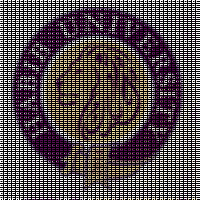
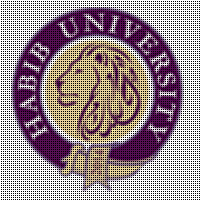
one loop column done

diff --git a/src/image_operations.py b/src/image_operations.py
@@ -121,97 +121,40 @@ def resize(src: MyImage) -> MyImage:
         for column in range(original_width):
 
             # getting the rgb values of the particular row and column using the get function of MyImage
-            rgb_value = src.get(row, column)
-            resulting_image.set(row * 2, column * 2, rgb_value)
+            red_left, green_left, blue_left = src.get(row, column)
 
-            if row > 0:
-                if row % 2 != 0:  # blank rows
-                    red_up, green_up, blue_up = resulting_image.get(
-                        row - 1, column)
-                    red_down, green_down, blue_down = resulting_image.get(
-                        row, column)
-                    
-                    average_red = int((red_up + red_down) / 2)
-                    average_green = int((green_up + green_down) / 2)
-                    average_blue = int((blue_up + blue_down) / 2)
+            resulting_image.set(row * 2, column * 2,
+                                (red_left, green_left, blue_left))
+            
+            if column < original_width - 1:
+                red_right, green_right, blue_right = src.get(row, column + 1)
 
-                    resulting_image.set(
-                        (row * 2) - 1, column * 2, (average_red, average_green, average_blue))
-                    if row == original_height - 1:
-                        resulting_image.set(
-                            (row * 2) + 1, column * 2, (red_up, green_up, blue_up))
-                    # else:
-                    
-                    
-            if column > 0:
-                if column % 2 != 0:  # blank columns
-                    red_left, green_left, blue_left = src.get(
-                        row, column - 1)
-                    red_right, green_right, blue_right = src.get(
-                        row, column)
-                    
-                    average_red = int((red_left + red_right) / 2)
-                    average_green = int((green_left + green_right) / 2)
-                    average_blue = int((blue_left + blue_right) / 2)
+                average_red = int((red_left + red_right) / 2)
+                average_green = int((green_left + green_right) / 2)
+                average_blue = int((blue_left + blue_right) / 2)
 
-                    print (red_left, red_right)
+                resulting_image.set(row * 2, column * 2 + 1,
+                                    (average_red, average_green, average_blue))
+            
+            
+            else:
+                resulting_image.set(row * 2, column * 2 + 1,
+                    (red_left, green_left, blue_left))
 
-                    resulting_image.set(
-                        row * 2, (column * 2) - 1 , (average_red, average_green, average_blue))
-                    if column == original_width - 1:
-                        resulting_image.set(
-                            row * 2, column * 2 + 1, (red_left, green_left, blue_left))
+            red_up, green_up, blue_up = src.get(row, column)
 
-                    # else:
-                        
-            # setting the rgb value on the resized (larger) image by skipping one pixel, leaving a alternate rows and columns blank
-            # resulting_image.set(row * 2, column * 2, rgb_value)
+            if row < original_height - 1:
+                red_down, green_down, blue_down = src.get(row + 1, column)
+            
+                average_red = int((red_up + red_down) / 2)
+                average_green = int((green_up + green_down) / 2)
+                average_blue = int((blue_up + blue_down) / 2)
 
-            # print("source: ", src.get(row, column))
-            # print("result: ", resulting_image.get(row * 2, column * 2))
-
-    # for row in range(new_height):  # looping to set rgb values for blank blocks/pxiels
-    #     for column in range(new_width):
-
-    #         if row % 2 != 0:  # blank rows
-    #             if row != new_height - 1:
-    #                 red_up, green_up, blue_up = resulting_image.get(
-    #                     row - 1, column)
-    #                 red_down, green_down, blue_down = resulting_image.get(
-    #                     row + 1, column)
-    #                 if column % 2 == 0:
-    #                     average_red = int((red_up + red_down) / 2)
-    #                     average_green = int((green_up + green_down) / 2)
-    #                     average_blue = int((blue_up + blue_down) / 2)
-
-    #                     resulting_image.set(
-    #                         row, column, (average_red, average_green, average_blue))
-                        
-    #                     # print (resulting_image.get(2, 1))
-    #                 # else:
-
-    #             else:
-    #                 resulting_image.set(
-    #                     row, column, (red_up, green_up, blue_up))
-
-    #         if column % 2 != 0:  # blank columns
-    #             if column != new_width - 1:
-
-    #                 red_left, green_left, blue_left = resulting_image.get(
-    #                     row, column - 1)
-    #                 red_right, green_right, blue_right = resulting_image.get(
-    #                     row, column + 1)
-
-    #                 average_red = int((red_left + red_right) / 2)
-    #                 average_green = int((green_left + green_right) / 2)
-    #                 average_blue = int((blue_left + blue_right) / 2)
-
-    #                 resulting_image.set(
-    #                     row, column, (average_red, average_green, average_blue))
-                    
-    #             else:
-    #                 resulting_image.set(
-    #                     row, column, (red_left, green_left, blue_left))
+                resulting_image.set(
+                    (row * 2) + 1, column * 2, (average_red, average_green, average_blue))
+            else:
+                resulting_image.set(
+                    (row * 2) + 1, column * 2, (red_up, green_up, blue_up))
                     
     # src.show()
     # resulting_image.show()

diff --git a/test_myimage.py b/test_myimage.py
@@ -80,9 +80,9 @@ def test_array_resize():
 
         pixellist2 = list(im2.getdata())
 
-        # im.show()
+        im.show()
 
-        # im2.show()
+        im2.show()
 
         compare(pixellist, pixellist2)
 
